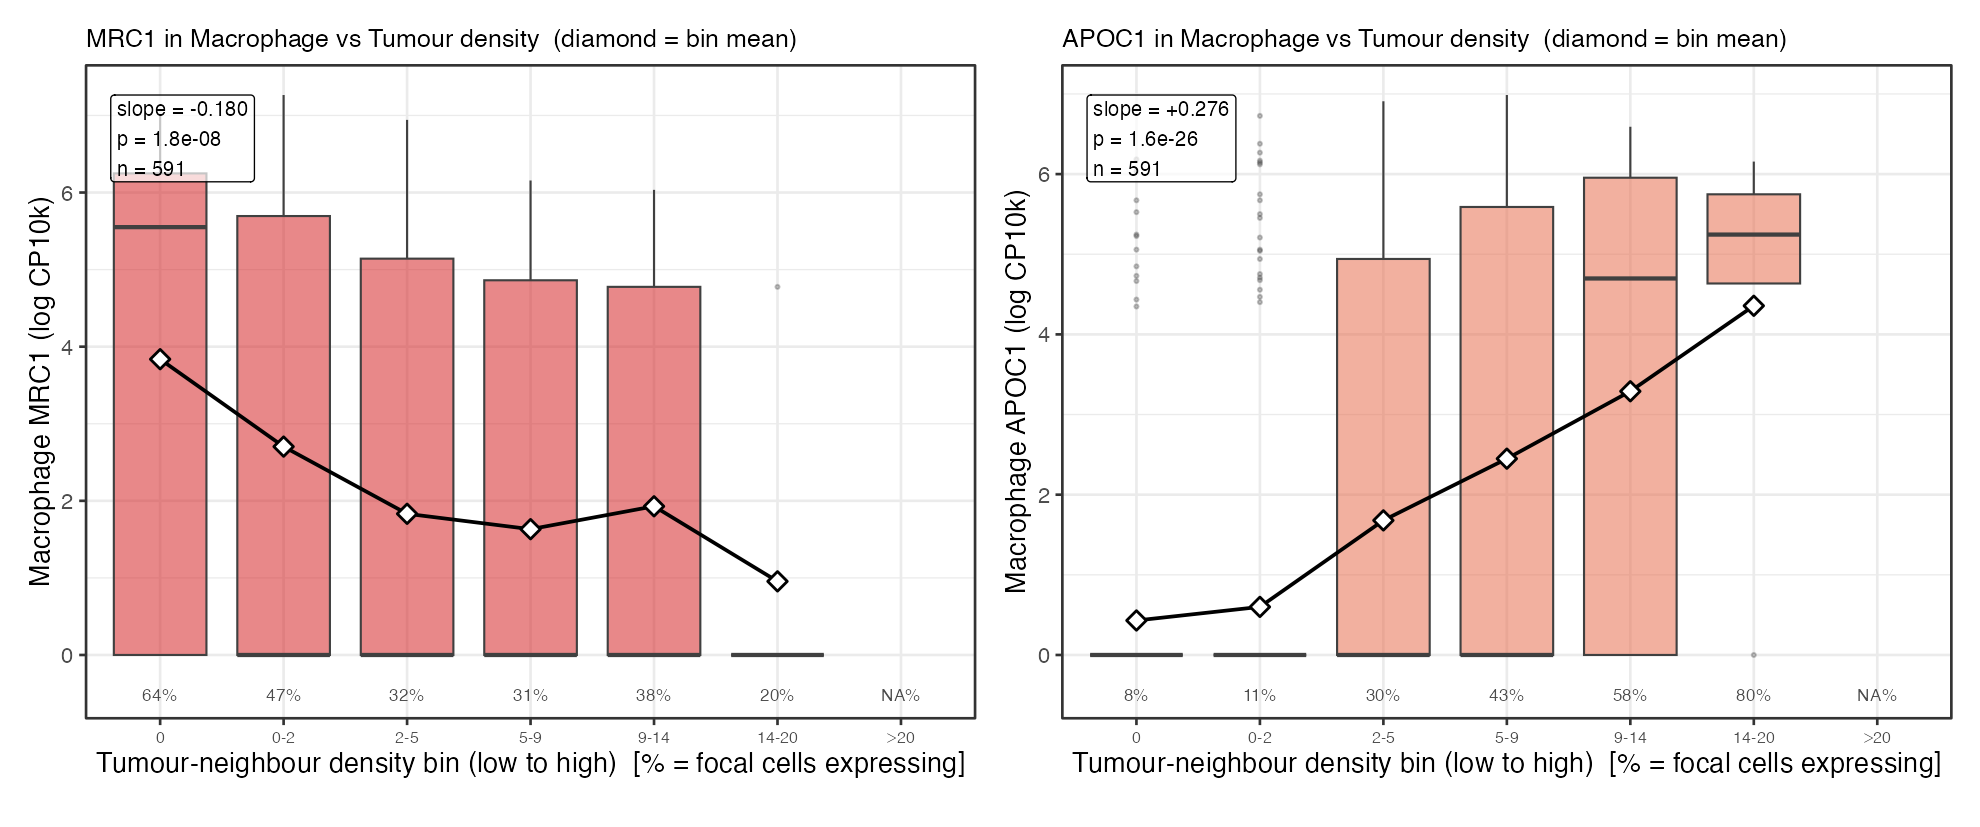
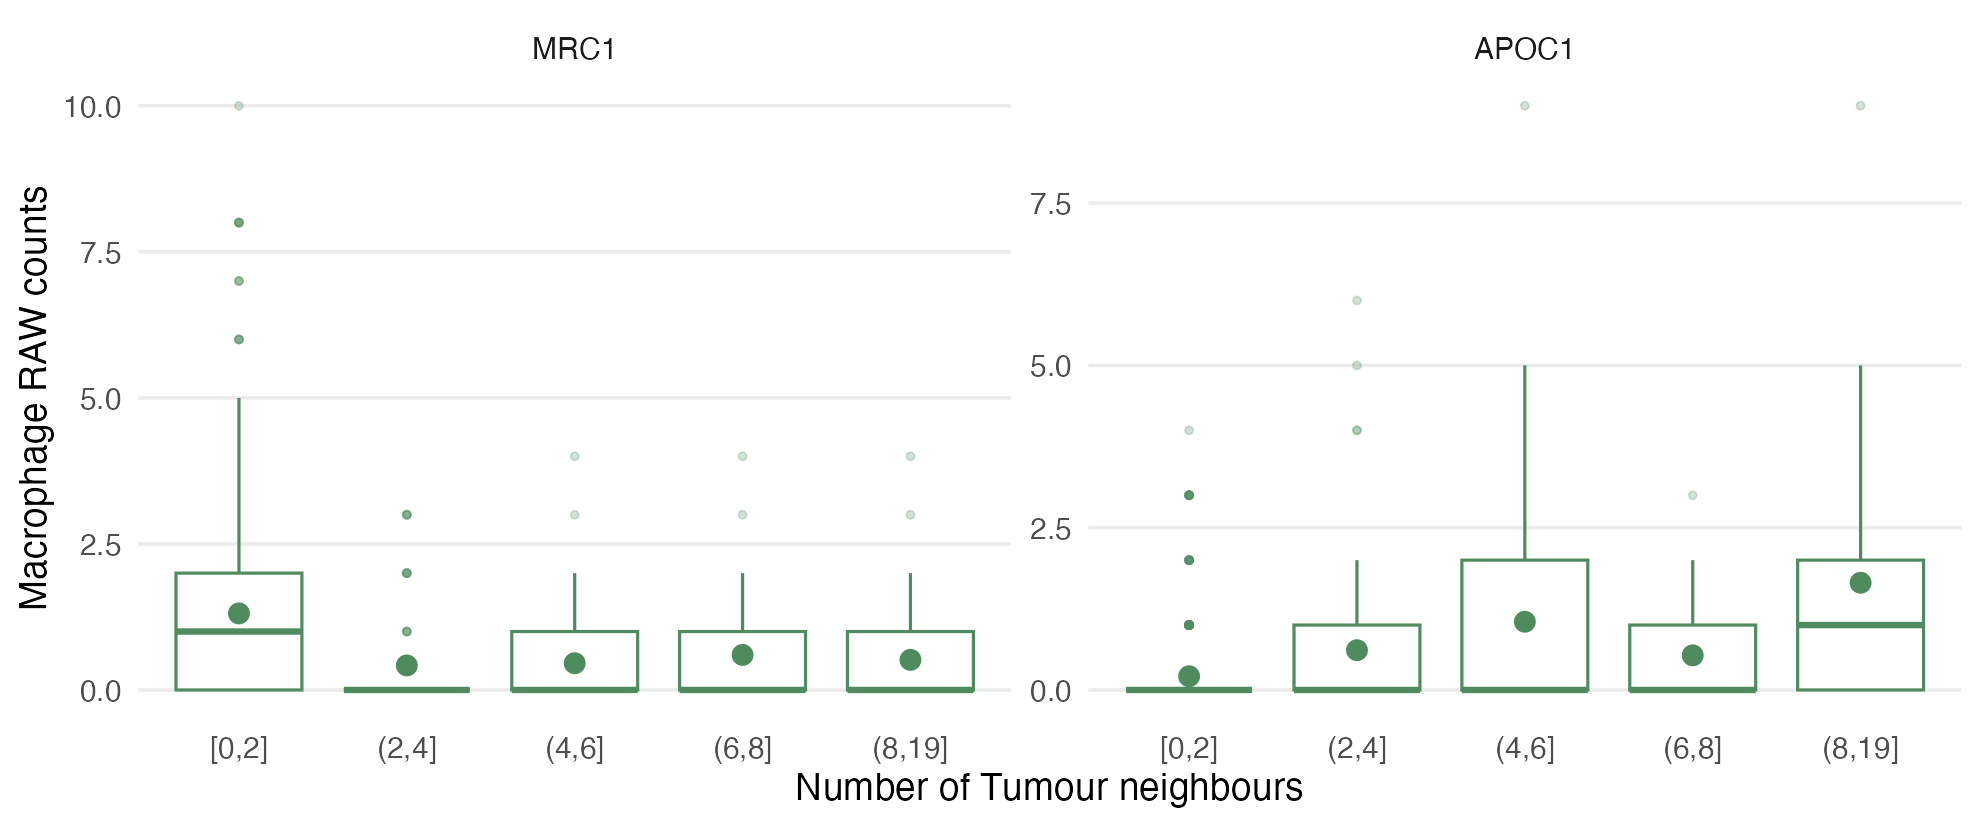
Deploy: canonical proximity boxplot

diff --git a/reference/plotProximity.html b/reference/plotProximity.html
@@ -1,13 +1,15 @@
 <!DOCTYPE html>
-<!-- Generated by pkgdown: do not edit by hand --><html lang="en"><head><meta http-equiv="Content-Type" content="text/html; charset=UTF-8"><meta charset="utf-8"><meta http-equiv="X-UA-Compatible" content="IE=edge"><meta name="viewport" content="width=device-width, initial-scale=1, shrink-to-fit=no"><title>Expression versus neighbour density (per-bin boxplot) — plotProximity • PACE</title><script src="../deps/jquery-3.6.0/jquery-3.6.0.min.js"></script><meta name="viewport" content="width=device-width, initial-scale=1, shrink-to-fit=no"><link href="../deps/bootstrap-5.3.1/bootstrap.min.css" rel="stylesheet"><script src="../deps/bootstrap-5.3.1/bootstrap.bundle.min.js"></script><link href="../deps/font-awesome-6.5.2/css/all.min.css" rel="stylesheet"><link href="../deps/font-awesome-6.5.2/css/v4-shims.min.css" rel="stylesheet"><script src="../deps/headroom-0.11.0/headroom.min.js"></script><script src="../deps/headroom-0.11.0/jQuery.headroom.min.js"></script><script src="../deps/bootstrap-toc-1.0.1/bootstrap-toc.min.js"></script><script src="../deps/clipboard.js-2.0.11/clipboard.min.js"></script><script src="../deps/search-1.0.0/autocomplete.jquery.min.js"></script><script src="../deps/search-1.0.0/fuse.min.js"></script><script src="../deps/search-1.0.0/mark.min.js"></script><!-- pkgdown --><script src="../pkgdown.js"></script><meta property="og:title" content="Expression versus neighbour density (per-bin boxplot) — plotProximity"><meta name="description" content="Reproduces the manuscript proximity figure: for each focal cell, the
-kernel-weighted density of a neighbour cell type is binned, and each gene's
-log1p CP10k expression is shown as a boxplot per bin with the per-bin mean
-overlaid (a diamond and connecting line), the percentage of focal cells
-expressing the gene, and the fitted expression-vs-density slope."><meta property="og:description" content="Reproduces the manuscript proximity figure: for each focal cell, the
-kernel-weighted density of a neighbour cell type is binned, and each gene's
-log1p CP10k expression is shown as a boxplot per bin with the per-bin mean
-overlaid (a diamond and connecting line), the percentage of focal cells
-expressing the gene, and the fitted expression-vs-density slope."></head><body>
+<!-- Generated by pkgdown: do not edit by hand --><html lang="en"><head><meta http-equiv="Content-Type" content="text/html; charset=UTF-8"><meta charset="utf-8"><meta http-equiv="X-UA-Compatible" content="IE=edge"><meta name="viewport" content="width=device-width, initial-scale=1, shrink-to-fit=no"><title>Expression versus number of neighbours (per-bin boxplot) — plotProximity • PACE</title><script src="../deps/jquery-3.6.0/jquery-3.6.0.min.js"></script><meta name="viewport" content="width=device-width, initial-scale=1, shrink-to-fit=no"><link href="../deps/bootstrap-5.3.1/bootstrap.min.css" rel="stylesheet"><script src="../deps/bootstrap-5.3.1/bootstrap.bundle.min.js"></script><link href="../deps/font-awesome-6.5.2/css/all.min.css" rel="stylesheet"><link href="../deps/font-awesome-6.5.2/css/v4-shims.min.css" rel="stylesheet"><script src="../deps/headroom-0.11.0/headroom.min.js"></script><script src="../deps/headroom-0.11.0/jQuery.headroom.min.js"></script><script src="../deps/bootstrap-toc-1.0.1/bootstrap-toc.min.js"></script><script src="../deps/clipboard.js-2.0.11/clipboard.min.js"></script><script src="../deps/search-1.0.0/autocomplete.jquery.min.js"></script><script src="../deps/search-1.0.0/fuse.min.js"></script><script src="../deps/search-1.0.0/mark.min.js"></script><!-- pkgdown --><script src="../pkgdown.js"></script><meta property="og:title" content="Expression versus number of neighbours (per-bin boxplot) — plotProximity"><meta name="description" content="Reproduces the manuscript proximity figure (verbatim style port of
+density_bin_boxplot in the analysis helpers): for each focal cell the number
+of neighbour-type cells within radius micrometres is counted and binned,
+and each gene's raw counts are drawn as a boxplot per bin with the per-bin mean
+overlaid as a point. Because these genes are zero-inflated the box median sits
+at zero in most bins, so the mean point carries the trend."><meta property="og:description" content="Reproduces the manuscript proximity figure (verbatim style port of
+density_bin_boxplot in the analysis helpers): for each focal cell the number
+of neighbour-type cells within radius micrometres is counted and binned,
+and each gene's raw counts are drawn as a boxplot per bin with the per-bin mean
+overlaid as a point. Because these genes are zero-inflated the box median sits
+at zero in most bins, so the mean point carries the trend."></head><body>
     <a href="#main" class="visually-hidden-focusable">Skip to contents</a>
 
 
@@ -34,22 +36,33 @@ expressing the gene, and the fitted expression-vs-density slope."></head><body>
 <div class="row">
   <main id="main" class="col-md-9"><div class="page-header">
 
-      <h1>Expression versus neighbour density (per-bin boxplot)</h1>
+      <h1>Expression versus number of neighbours (per-bin boxplot)</h1>
       <small class="dont-index">Source: <a href="https://github.com/ecool50/PACE/blob/HEAD/R/plots.R" class="external-link"><code>R/plots.R</code></a></small>
       <div class="d-none name"><code>plotProximity.Rd</code></div>
     </div>
 
     <div class="ref-description section level2">
-    <p>Reproduces the manuscript proximity figure: for each focal cell, the
-kernel-weighted density of a neighbour cell type is binned, and each gene's
-log1p CP10k expression is shown as a boxplot per bin with the per-bin mean
-overlaid (a diamond and connecting line), the percentage of focal cells
-expressing the gene, and the fitted expression-vs-density slope.</p>
+    <p>Reproduces the manuscript proximity figure (verbatim style port of
+<code>density_bin_boxplot</code> in the analysis helpers): for each focal cell the number
+of <code>neighbour</code>-type cells within <code>radius</code> micrometres is counted and binned,
+and each gene's raw counts are drawn as a boxplot per bin with the per-bin mean
+overlaid as a point. Because these genes are zero-inflated the box median sits
+at zero in most bins, so the mean point carries the trend.</p>
     </div>
 
     <div class="section level2">
     <h2 id="ref-usage">Usage<a class="anchor" aria-label="anchor" href="#ref-usage"></a></h2>
-    <div class="sourceCode"><pre class="sourceCode r"><code><span><span class="fu">plotProximity</span><span class="op">(</span><span class="va">object</span>, <span class="va">spe</span>, <span class="va">genes</span>, <span class="va">focal</span>, <span class="va">neighbour</span>, assay_name <span class="op">=</span> <span class="st">"counts"</span><span class="op">)</span></span></code></pre></div>
+    <div class="sourceCode"><pre class="sourceCode r"><code><span><span class="fu">plotProximity</span><span class="op">(</span></span>
+<span>  <span class="va">object</span>,</span>
+<span>  <span class="va">spe</span>,</span>
+<span>  <span class="va">genes</span>,</span>
+<span>  <span class="va">focal</span>,</span>
+<span>  <span class="va">neighbour</span>,</span>
+<span>  radius <span class="op">=</span> <span class="fl">30</span>,</span>
+<span>  breaks <span class="op">=</span> <span class="fu"><a href="https://rdrr.io/r/base/c.html" class="external-link">c</a></span><span class="op">(</span><span class="fl">0</span>, <span class="fl">2</span>, <span class="fl">4</span>, <span class="fl">6</span>, <span class="fl">8</span>, <span class="cn">Inf</span><span class="op">)</span>,</span>
+<span>  box_colour <span class="op">=</span> <span class="st">"#4F8B5E"</span>,</span>
+<span>  assay_name <span class="op">=</span> <span class="st">"counts"</span></span>
+<span><span class="op">)</span></span></code></pre></div>
     </div>
 
     <div class="section level2">
@@ -57,8 +70,7 @@ expressing the gene, and the fitted expression-vs-density slope.</p>
 
 
 <dl><dt id="arg-object">object<a class="anchor" aria-label="anchor" href="#arg-object"></a></dt>
-<dd><p>A <a href="PACEFit-class.html">PACEFit</a> (supplies the kernel bandwidths and cell-type
-column used at fit time).</p></dd>
+<dd><p>A <a href="PACEFit-class.html">PACEFit</a> (supplies the cell-type column used at fit time).</p></dd>
 
 
 <dt id="arg-spe">spe<a class="anchor" aria-label="anchor" href="#arg-spe"></a></dt>
@@ -66,11 +78,23 @@ column used at fit time).</p></dd>
 
 
 <dt id="arg-genes">genes<a class="anchor" aria-label="anchor" href="#arg-genes"></a></dt>
-<dd><p>Character vector of genes to plot (one panel each).</p></dd>
+<dd><p>Character vector of genes (shown as facets).</p></dd>
 
 
 <dt id="arg-focal-neighbour">focal, neighbour<a class="anchor" aria-label="anchor" href="#arg-focal-neighbour"></a></dt>
 <dd><p>Focal and neighbour cell types.</p></dd>
+
+
+<dt id="arg-radius">radius<a class="anchor" aria-label="anchor" href="#arg-radius"></a></dt>
+<dd><p>Neighbour search radius in micrometres (default 30).</p></dd>
+
+
+<dt id="arg-breaks">breaks<a class="anchor" aria-label="anchor" href="#arg-breaks"></a></dt>
+<dd><p>Neighbour-count bin breaks (default <code>c(0, 2, 4, 6, 8, Inf)</code>).</p></dd>
+
+
+<dt id="arg-box-colour">box_colour<a class="anchor" aria-label="anchor" href="#arg-box-colour"></a></dt>
+<dd><p>Box and mean-point colour.</p></dd>
 
 
 <dt id="arg-assay-name">assay_name<a class="anchor" aria-label="anchor" href="#arg-assay-name"></a></dt>
@@ -79,7 +103,7 @@ column used at fit time).</p></dd>
 </dl></div>
     <div class="section level2">
     <h2 id="value">Value<a class="anchor" aria-label="anchor" href="#value"></a></h2>
-    <p>A <code>patchwork</code> / <code>ggplot</code> object.</p>
+    <p>A <code>ggplot</code> object.</p>
     </div>
 
     <div class="section level2">

diff --git a/articles/PACE.html b/articles/PACE.html
@@ -168,11 +168,11 @@ whole pipeline. On this crop it takes about half a minute.</p>
 <span><span class="co">#&gt;  - Computing 278 x 313 likelihood matrix.</span></span>
 <span><span class="co">#&gt;  - Likelihood calculations took 0.05 seconds.</span></span>
 <span><span class="co">#&gt;  - Fitting model with 313 mixture components.</span></span>
-<span><span class="co">#&gt;  - Model fitting took 0.09 seconds.</span></span>
+<span><span class="co">#&gt;  - Model fitting took 0.10 seconds.</span></span>
 <span><span class="co">#&gt;  - Computing posterior matrices.</span></span>
 <span><span class="co">#&gt;  - Computation allocated took 0.00 seconds.</span></span>
 <span><span class="co">#&gt;  - Computing 278 x 92 likelihood matrix.</span></span>
-<span><span class="co">#&gt;  - Likelihood calculations took 0.01 seconds.</span></span>
+<span><span class="co">#&gt;  - Likelihood calculations took 0.02 seconds.</span></span>
 <span><span class="co">#&gt;  - Fitting model with 92 mixture components.</span></span>
 <span><span class="co">#&gt;  - Model fitting took 0.02 seconds.</span></span>
 <span><span class="co">#&gt;  - Computing posterior matrices.</span></span>
@@ -186,7 +186,7 @@ whole pipeline. On this crop it takes about half a minute.</p>
 <span><span class="co">#&gt;  - Computing 278 x 417 likelihood matrix.</span></span>
 <span><span class="co">#&gt;  - Likelihood calculations took 0.06 seconds.</span></span>
 <span><span class="co">#&gt;  - Fitting model with 417 mixture components.</span></span>
-<span><span class="co">#&gt;  - Model fitting took 0.29 seconds.</span></span>
+<span><span class="co">#&gt;  - Model fitting took 0.28 seconds.</span></span>
 <span><span class="co">#&gt;  - Computing posterior matrices.</span></span>
 <span><span class="co">#&gt;  - Computation allocated took 0.00 seconds.</span></span>
 <span><span class="co">#&gt;  - Computing 278 x 92 likelihood matrix.</span></span>
@@ -202,7 +202,7 @@ whole pipeline. On this crop it takes about half a minute.</p>
 <span><span class="co">#&gt;  - Computing posterior matrices.</span></span>
 <span><span class="co">#&gt;  - Computation allocated took 0.00 seconds.</span></span>
 <span><span class="co">#&gt;  - Computing 278 x 430 likelihood matrix.</span></span>
-<span><span class="co">#&gt;  - Likelihood calculations took 0.07 seconds.</span></span>
+<span><span class="co">#&gt;  - Likelihood calculations took 0.06 seconds.</span></span>
 <span><span class="co">#&gt;  - Fitting model with 430 mixture components.</span></span>
 <span><span class="co">#&gt;  - Model fitting took 0.15 seconds.</span></span>
 <span><span class="co">#&gt;  - Computing posterior matrices.</span></span>
@@ -210,7 +210,7 @@ whole pipeline. On this crop it takes about half a minute.</p>
 <span><span class="co">#&gt;  - Computing 278 x 628 likelihood matrix.</span></span>
 <span><span class="co">#&gt;  - Likelihood calculations took 0.10 seconds.</span></span>
 <span><span class="co">#&gt;  - Fitting model with 628 mixture components.</span></span>
-<span><span class="co">#&gt;  - Model fitting took 0.28 seconds.</span></span>
+<span><span class="co">#&gt;  - Model fitting took 0.30 seconds.</span></span>
 <span><span class="co">#&gt;  - Computing posterior matrices.</span></span>
 <span><span class="co">#&gt;  - Computation allocated took 0.00 seconds.</span></span>
 <span><span class="co">#&gt;  - Computing 278 x 404 likelihood matrix.</span></span>
@@ -222,7 +222,7 @@ whole pipeline. On this crop it takes about half a minute.</p>
 <span><span class="co">#&gt;  - Computing 278 x 590 likelihood matrix.</span></span>
 <span><span class="co">#&gt;  - Likelihood calculations took 0.09 seconds.</span></span>
 <span><span class="co">#&gt;  - Fitting model with 590 mixture components.</span></span>
-<span><span class="co">#&gt;  - Model fitting took 1.14 seconds.</span></span>
+<span><span class="co">#&gt;  - Model fitting took 1.16 seconds.</span></span>
 <span><span class="co">#&gt;  - Computing posterior matrices.</span></span>
 <span><span class="co">#&gt;  - Computation allocated took 0.01 seconds.</span></span>
 <span><span class="va">fit</span></span>
@@ -288,13 +288,11 @@ reduced near tumour, and the lipid-associated marker
 <div class="section level2">
 <h2 id="visualising-the-proximity-effect">Visualising the proximity effect<a class="anchor" aria-label="anchor" href="#visualising-the-proximity-effect"></a>
 </h2>
-<p><code><a href="../reference/plotProximity.html">plotProximity()</a></code> bins each macrophage by its
-kernel-weighted tumour-neighbour density and shows each gene’s log1p
-CP10k expression per bin. Because these genes are zero-inflated (the box
-median sits at zero in most bins), the per-bin mean is overlaid as a
-diamond and connecting line to make the trend explicit, alongside the
-percentage of macrophages expressing the gene and the fitted
-expression-versus-density slope. MRC1 falls and APOC1 rises with tumour
+<p><code><a href="../reference/plotProximity.html">plotProximity()</a></code> bins each macrophage by its number of
+tumour neighbours (within 30 um) and shows each gene’s raw counts per
+bin. Because these genes are zero-inflated the box median sits at zero
+in most bins, so the per-bin mean is overlaid as a point to make the
+trend explicit. Macrophage MRC1 falls and APOC1 rises with tumour
 proximity.</p>
 <div class="sourceCode" id="cb8"><pre class="downlit sourceCode r">
 <code class="sourceCode R"><span><span class="fu"><a href="../reference/plotProximity.html">plotProximity</a></span><span class="op">(</span><span class="va">fit</span>, <span class="va">spe</span>, <span class="fu"><a href="https://rdrr.io/r/base/c.html" class="external-link">c</a></span><span class="op">(</span><span class="st">"MRC1"</span>, <span class="st">"APOC1"</span><span class="op">)</span>, <span class="st">"Macrophage"</span>, <span class="st">"Tumour"</span><span class="op">)</span></span></code></pre></div>

diff --git a/reference/index.html b/reference/index.html
@@ -81,7 +81,7 @@
           <code><a href="plotProximity.html">plotProximity()</a></code>
 
         </dt>
-        <dd>Expression versus neighbour density (per-bin boxplot)</dd>
+        <dd>Expression versus number of neighbours (per-bin boxplot)</dd>
       </dl><dl><dt>
 
           <code><a href="topDrivers.html">topDrivers()</a></code>